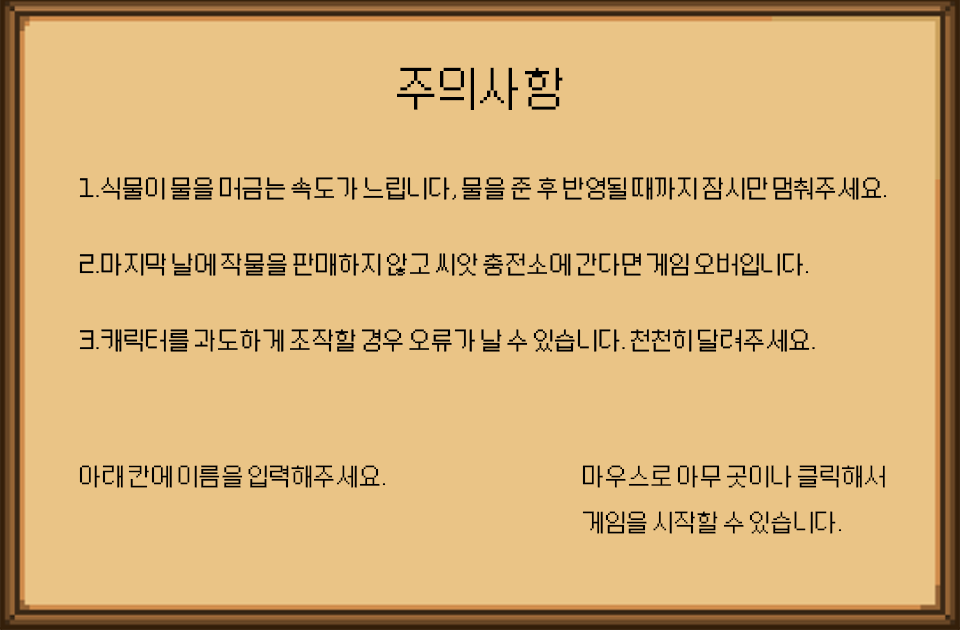
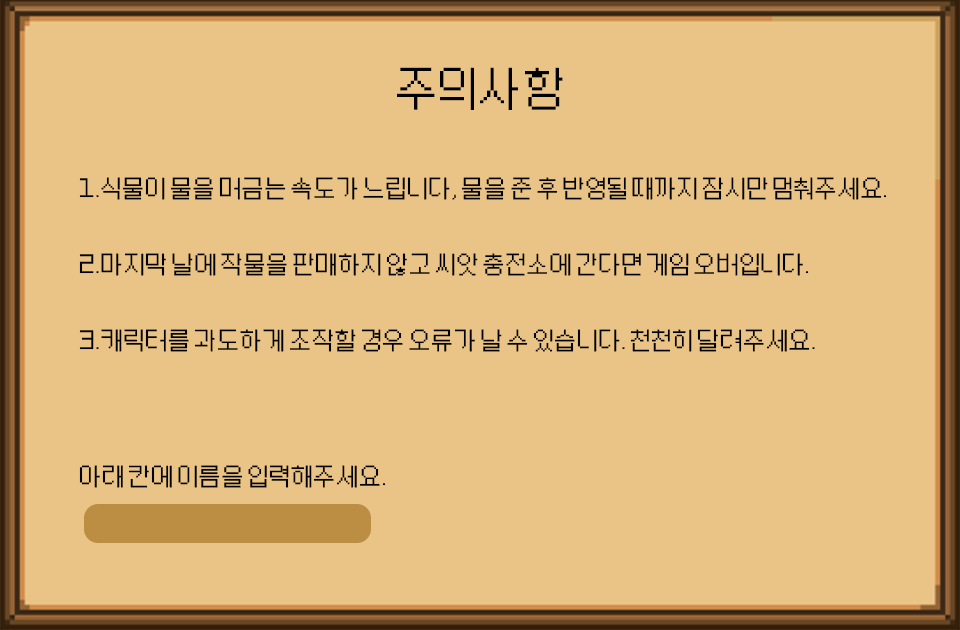
0517인트로 구현

diff --git a/src/stardewValley/A_OHJ/IntroGuide.java b/src/stardewValley/A_OHJ/IntroGuide.java
@@ -1,5 +1,7 @@
 package stardewValley.A_OHJ;
 
+import java.awt.event.ActionEvent;
+import java.awt.event.ActionListener;
 import java.awt.event.KeyEvent;
 import java.awt.event.KeyListener;
 import java.awt.event.MouseEvent;
@@ -21,7 +23,10 @@ public class IntroGuide extends JFrame implements IImagePack {
 	private JLabel guide3;
 	private JPanel nameField;
 	private JTextField text;
-	private JButton buttonField; //
+	private JButton startButton;
+	private JButton guide1Button;
+	private JButton guide2Button;
+	private JButton guide3Button;
 	private StardewValleyFrame game;
 
 	public IntroGuide() {
@@ -35,36 +40,43 @@ public class IntroGuide extends JFrame implements IImagePack {
 		setSize(1930, 980);
 		setDefaultCloseOperation(JFrame.EXIT_ON_CLOSE);
 
-		Icon icon1 = new ImageIcon(introGuideBg);
-		bg = new JLabel(icon1);
+		bg = new JLabel(new ImageIcon(introGuideBg));
 		bg.setSize(1930, 980);
 		bg.setLocation(0, 0);
 
-		Icon icon2 = new ImageIcon(WelcomeGuide);
-		guide1 = new JLabel(icon2);
+		guide1 = new JLabel(new ImageIcon(WelcomeGuide));
 		guide1.setSize(960, 630);
-		guide1.setLocation(485, 175);
+		guide1.setLocation(485, 120);
 
-		Icon icon3 = new ImageIcon(KeyGuide);
-		guide2 = new JLabel(icon3);
+		guide2 = new JLabel(new ImageIcon(KeyGuide));
 		guide2.setSize(960, 630);
-		guide2.setLocation(485, 175);
+		guide2.setLocation(485, 120);
 
-		Icon icon4 = new ImageIcon(HelpGuide);
-		guide3 = new JLabel(icon4);
+		guide3 = new JLabel(new ImageIcon(HelpGuide));
 		guide3.setSize(960, 630);
-		guide3.setLocation(485, 175);
+		guide3.setLocation(485, 120);
 
 		nameField = new JPanel();
 		nameField.setSize(180, 25);
-		nameField.setLocation(615, 690);
+		nameField.setLocation(620, 630);
 
-		Icon icon5 = new ImageIcon("img/vege/Carrot.png");
-		buttonField = new JButton(icon5);//
-		buttonField.setSize(180, 100);
-		buttonField.setLocation(10, 10);
+		startButton = new JButton(new ImageIcon(StartButtonImg));//
+		startButton.setSize(120, 83);
+		startButton.setLocation(1335, 780);
 
-		text = new JTextField(15);
+		guide1Button = new JButton(new ImageIcon(Guide1ButtonImg));//
+		guide1Button.setSize(120, 83);
+		guide1Button.setLocation(485, 780);
+
+		guide2Button = new JButton(new ImageIcon(Guide2ButtonImg));//
+		guide2Button.setSize(120, 83);
+		guide2Button.setLocation(685, 780);
+
+		guide3Button = new JButton(new ImageIcon(Guide3ButtonImg));//
+		guide3Button.setSize(120, 83);
+		guide3Button.setLocation(885, 780);
+
+		text = new JTextField(10);
 	}
 
 	public void setInitLayout() {
@@ -72,7 +84,11 @@ public class IntroGuide extends JFrame implements IImagePack {
 		bg.add(guide2);
 		bg.add(guide3);
 		bg.add(nameField);
-		bg.add(buttonField);//
+
+		bg.add(startButton);
+		bg.add(guide1Button);
+		bg.add(guide2Button);
+		bg.add(guide3Button);
 
 		nameField.add(text);
 
@@ -86,111 +102,60 @@ public class IntroGuide extends JFrame implements IImagePack {
 		guide2.setVisible(false);
 		guide3.setVisible(false);
 		nameField.setVisible(false);
-		buttonField.setVisible(false);//
+		startButton.setVisible(false);
+		guide1Button.setVisible(true);
+		guide2Button.setVisible(true);
+		guide3Button.setVisible(true);
 	}
 
 	private void addEventListener() {
-		addKeyListener(new KeyListener() {
+
+		startButton.addActionListener(new ActionListener() {
 
 			@Override
-			public void keyTyped(KeyEvent e) {
-
-			}
-
-			@Override
-			public void keyReleased(KeyEvent e) {
-
-			}
-
-			@Override
-			public void keyPressed(KeyEvent e) {
-				if (e.getKeyCode() == KeyEvent.VK_A) {
-					guide1.setVisible(false);
-					guide2.setVisible(true);
-					guide3.setVisible(false);
-					nameField.setVisible(false);
-				} else if (e.getKeyCode() == KeyEvent.VK_S) {
-					guide1.setVisible(false);
-					guide2.setVisible(false);
-					guide3.setVisible(true);
-					nameField.setVisible(true);
-					buttonField.setVisible(true);//
-				}
+			public void actionPerformed(ActionEvent e) {
+				game = new StardewValleyFrame();
+				game.getStatus().getNameField().setText(text.getText());
+				setVisible(false);
 			}
 		});
 
-		addMouseListener(new MouseListener() {
+		guide1Button.addActionListener(new ActionListener() {
 
 			@Override
-			public void mouseReleased(MouseEvent e) {
-
-			}
-
-			@Override
-			public void mousePressed(MouseEvent e) {
-				if(e.getComponent().getName().equals(buttonField)) {
-					game = new StardewValleyFrame();
-					game.getStatus().getNameField().setText(text.getText());
-					setVisible(false);
-				}
-			}
-
-			@Override
-			public void mouseExited(MouseEvent e) {
-
-			}
-
-			@Override
-			public void mouseEntered(MouseEvent e) {
-
-			}
-
-			@Override
-			public void mouseClicked(MouseEvent e) {
-
+			public void actionPerformed(ActionEvent e) {
+				guide1.setVisible(true);
+				guide2.setVisible(false);
+				guide3.setVisible(false);
+				nameField.setVisible(false);
+				startButton.setVisible(false);
 			}
 		});
-	}
 
-	public JLabel getBg() {
-		return bg;
-	}
+		guide2Button.addActionListener(new ActionListener() {
 
-	public void setBg(JLabel bg) {
-		this.bg = bg;
-	}
+			@Override
+			public void actionPerformed(ActionEvent e) {
+				guide1.setVisible(false);
+				guide2.setVisible(true);
+				guide3.setVisible(false);
+				nameField.setVisible(false);
+				startButton.setVisible(false);
+			}
+		});
 
-	public JPanel getNameField() {
-		return nameField;
-	}
+		guide3Button.addActionListener(new ActionListener() {
 
-	public void setNameField(JPanel nameField) {
-		this.nameField = nameField;
-	}
+			@Override
+			public void actionPerformed(ActionEvent e) {
+				guide1.setVisible(false);
+				guide2.setVisible(false);
+				guide3.setVisible(true);
+				nameField.setVisible(true);
+				startButton.setVisible(true);
+			}
+		});
 
-	public JTextField getText() {
-		return text;
-	}
-
-	public void setText(JTextField text) {
-		this.text = text;
-	}
-
-	
-	public JButton getButtonField() {
-		return buttonField;
-	}
-
-	public void setButtonField(JButton buttonField) {
-		this.buttonField = buttonField;
-	}
-
-	public StardewValleyFrame getGame() {
-		return game;
-	}
-
-	public void setGame(StardewValleyFrame game) {
-		this.game = game;
 	}
 
 }

diff --git a/src/stardewValley/A_OHJ/IImagePack.java b/src/stardewValley/A_OHJ/IImagePack.java
@@ -7,5 +7,8 @@ public interface IImagePack {
 	public String WelcomeGuide = "img/intro/temptitle.png";
 	public String KeyGuide = "img/intro/KeyCommand.png";
 	public String HelpGuide = "img/intro/helpInfo.png";
-
+	public String StartButtonImg = "img/intro/startButton.png";
+	public String Guide1ButtonImg = "img/intro/guide1Button.png";
+	public String Guide2ButtonImg = "img/intro/guide2Button.png";
+	public String Guide3ButtonImg = "img/intro/guide3Button.png";
 }
